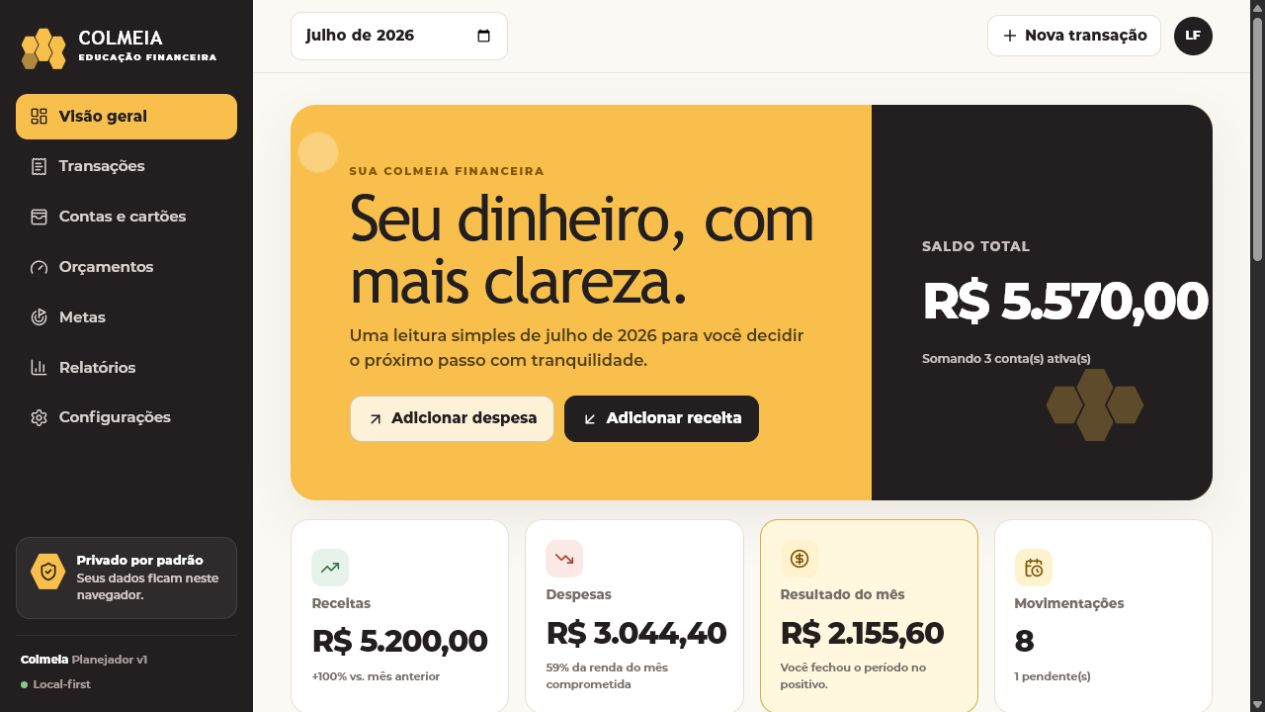
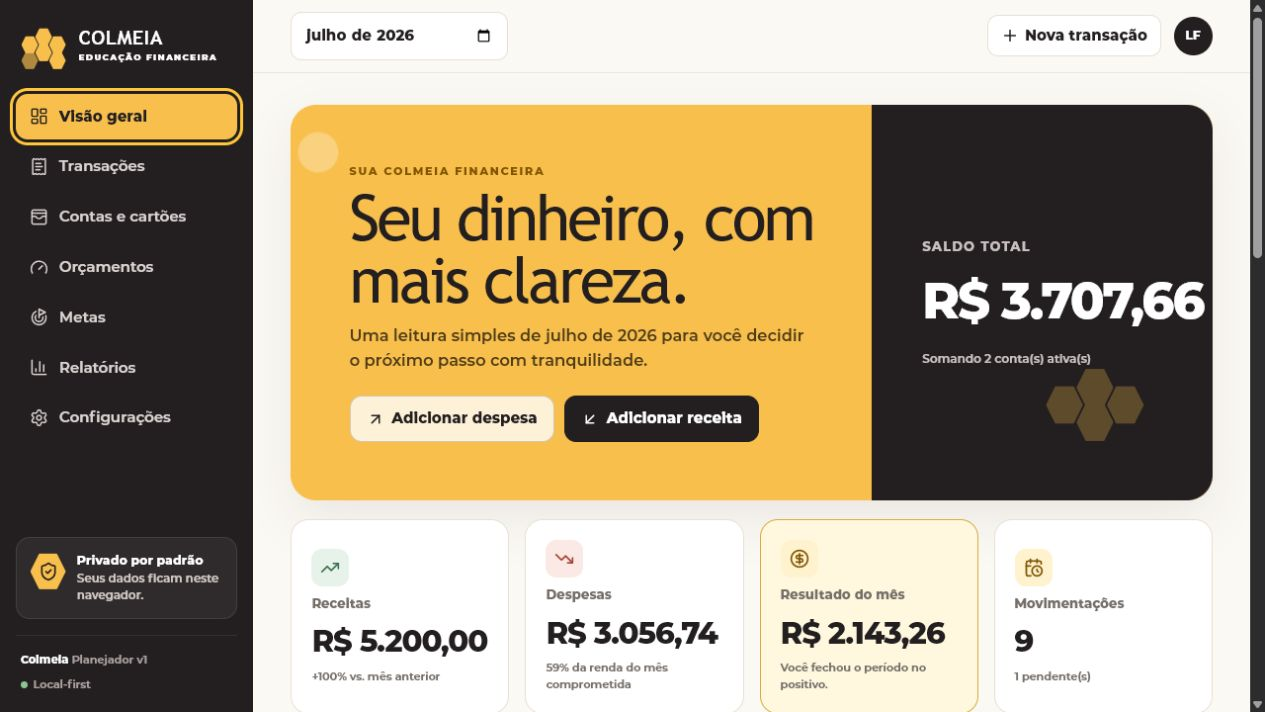
docs: record final published qa evidence

diff --git a/app/globals.css b/app/globals.css
@@ -2247,8 +2247,9 @@ td {
     position: fixed;
     inset: auto 0 0;
     z-index: 32;
-    display: flex;
-    overflow-x: auto;
+    display: grid;
+    grid-template-columns: repeat(5, minmax(0, 1fr));
+    overflow-x: hidden;
     border-top: 1px solid var(--border);
     background: rgba(255, 255, 255, 0.96);
     padding: 0.45rem 0.3rem max(0.45rem, env(safe-area-inset-bottom));
@@ -2257,7 +2258,7 @@ td {
 
   .bottom-nav button {
     display: grid;
-    min-width: 69px;
+    min-width: 0;
     min-height: 50px;
     flex: 1;
     place-items: center;
@@ -2266,6 +2267,10 @@ td {
     background: transparent;
     color: var(--muted);
     font-size: 0.58rem;
+  }
+
+  .bottom-nav button:nth-child(n + 6) {
+    display: none;
   }
 
   .bottom-nav button.active {

diff --git a/docs/quality/qa-checklist.md b/docs/quality/qa-checklist.md
@@ -2,33 +2,45 @@
 
 ## Engenharia
 
-- [ ] TypeScript estrito sem erros.
-- [ ] ESLint e Prettier aprovados.
-- [ ] Unitários e componentes aprovados.
+- [x] TypeScript estrito sem erros.
+- [x] ESLint e Prettier aprovados.
+- [x] Unitários e componentes aprovados: 16 testes em 4 arquivos.
 - [ ] E2E desktop e mobile aprovados.
-- [ ] Builds Sites e GitHub Pages aprovados.
-- [ ] Sem segredos ou .env versionado.
+- [x] QA manual na URL publicada em desktop e mobile.
+- [x] Builds Sites e GitHub Pages aprovados localmente.
+- [x] Sem segredos ou .env versionado.
 
 ## Produto
 
-- [ ] Onboarding completo, pular e reiniciar.
-- [ ] CRUD de conta, cartão, transação, orçamento e meta.
-- [ ] Dashboard reage e persistência sobrevive à recarga.
-- [ ] Filtros e relatórios coerentes.
-- [ ] JSON/CSV exportam; importações mostram prévia.
-- [ ] Dados demo são removíveis.
+- [x] Onboarding completo, pular e reiniciar.
+- [x] CRUD de conta, cartão, transação, orçamento e meta.
+- [x] Dashboard reage e persistência sobrevive à recarga.
+- [x] Filtros e relatórios coerentes.
+- [x] JSON/CSV exportam; importações mostram prévia.
+- [x] Dados demo são removíveis.
 
 ## Marca e acessibilidade
 
-- [ ] Nome oficial em toda a interface.
-- [ ] Paleta e tipografia coerentes com o brandbook.
-- [ ] Hexágonos controlados e sem aparência genérica de fintech.
-- [ ] Contraste, foco, labels, teclado e reduced motion verificados.
-- [ ] Gráficos possuem alternativa textual.
+- [x] Nome oficial em toda a interface.
+- [x] Paleta e tipografia coerentes com o brandbook.
+- [x] Hexágonos controlados e sem aparência genérica de fintech.
+- [x] Contraste, foco, labels, teclado e reduced motion verificados.
+- [x] Gráficos possuem alternativa textual.
 
 ## Publicação
 
 - [ ] GitHub Actions aprovado.
 - [ ] GitHub Pages carrega JS, CSS, manifest e service worker.
-- [ ] Sites privado publicado e aberto.
-- [ ] Console publicado sem erro relevante.
+- [x] Sites privado publicado e aberto.
+- [x] Console publicado sem erro ou aviso relevante.
+
+## Evidências
+
+- `onboarding-desktop.png`
+- `dashboard-desktop.png`
+- `accounts-mobile.png`
+
+O E2E Playwright está implementado, mas não foi executado neste ambiente porque a
+política do navegador bloqueou a URL local. Os mesmos fluxos críticos foram
+percorridos na publicação HTTPS: onboarding, exclusão reforçada, criação de
+transação, atualização do dashboard, recarga com persistência e responsividade.

diff --git a/docs/exec-plans/active/mvp-financial-planner.md b/docs/exec-plans/active/mvp-financial-planner.md
@@ -13,10 +13,11 @@ Atualizado em 15/07/2026.
 - [x] Implementar relatórios, backup, CSV e configurações.
 - [x] Adicionar PWA e build estático para GitHub Pages.
 - [x] Criar testes unitários, de componentes e e2e.
-- [ ] Executar typecheck, lint, formatação, testes e builds.
-- [ ] Executar Brand Guardian e QA em desktop/mobile.
-- [ ] Corrigir achados e gerar screenshots.
-- [ ] Publicar no GitHub, GitHub Pages e Sites.
+- [x] Executar typecheck, lint, formatação, testes e builds.
+- [x] Executar Brand Guardian e QA em desktop/mobile.
+- [x] Corrigir achados e gerar screenshots.
+- [x] Publicar uma versão privada no Sites.
+- [ ] Publicar no GitHub e GitHub Pages.
 - [ ] Validar URLs e mover este plano para completed.
 
 ## Decisões
@@ -26,6 +27,14 @@ fontes proprietárias substituídas; navegação de uma rota para Pages.
 
 ## Riscos
 
-O GitHub CLI não está instalado; usar conexão GitHub e Git local. O build de
-Sites e o export estático precisam ser validados separadamente. Playwright usará
-o Chrome instalado para evitar baixar navegador duplicado.
+O GitHub CLI não está instalado e a conexão disponível não cria repositórios; a
+criação e o push público estão bloqueados até instalar/autenticar `gh` ou criar o
+repositório manualmente. O build Sites e o export estático foram validados
+separadamente. O navegador local foi bloqueado pela política de URL; a QA manual
+foi concluída na publicação HTTPS.
+
+## Achados corrigidos
+
+- A conta inicial agora substitui a conta principal da demonstração, sem duplicar.
+- O service worker usa rede primeiro e cache como fallback para receber releases.
+- A barra mobile mostra cinco destinos e mantém Relatórios/Configurações no menu.

diff --git a/README.md b/README.md
@@ -5,6 +5,12 @@ despesas, orçamentos e metas com clareza e sem linguagem punitiva.
 
 ![Prévia social da Colmeia Educação Financeira](public/og.png)
 
+Versão privada publicada: https://colmeia-planejador-financeiro.lucascampos.chatgpt.site
+
+![Dashboard do planejador](docs/quality/screenshots/dashboard-desktop.png)
+
+![Contas em viewport mobile](docs/quality/screenshots/accounts-mobile.png)
+
 ## Funcionalidades
 
 - Onboarding em quatro etapas e demonstração fictícia opcional.
@@ -17,7 +23,7 @@ despesas, orçamentos e metas com clareza e sem linguagem punitiva.
 
 ## Stack
 
-React 19, TypeScript estrito, App Router, Vinext/Vite, Tailwind CSS base, Dexie,
+React 19, TypeScript estrito, App Router, Vinext/Vite, CSS com tokens, Dexie,
 Zod, React Hook Form, Vitest, Testing Library e Playwright.
 
 ## Começar
@@ -52,7 +58,8 @@ de testes, privacidade e limitações estão em docs/.
 ## Publicação
 
 O workflow .github/workflows/pages.yml valida o projeto, gera out/ e publica no
-GitHub Pages. O build padrão também produz o pacote compatível com Sites.
+GitHub Pages assim que o repositório público for conectado. O build padrão também
+produz o pacote compatível com Sites; a versão privada está publicada no link acima.
 
 ## Limitações e roadmap
 

diff --git a/docs/quality/known-limitations.md b/docs/quality/known-limitations.md
@@ -12,3 +12,7 @@
 - Paginação/virtualização não é necessária para o volume esperado do MVP.
 - Trap de foco em modal pode ser refinado; Escape, foco visível e labels existem.
 - Instalação PWA depende do suporte do navegador e de HTTPS na publicação.
+- Os cenários Playwright estão escritos, mas não rodaram neste ambiente por bloqueio
+  da URL local; a validação equivalente foi feita manualmente na URL HTTPS publicada.
+- GitHub Pages depende da criação do repositório público e da autenticação do GitHub
+  CLI, indisponível neste ambiente no momento da entrega.